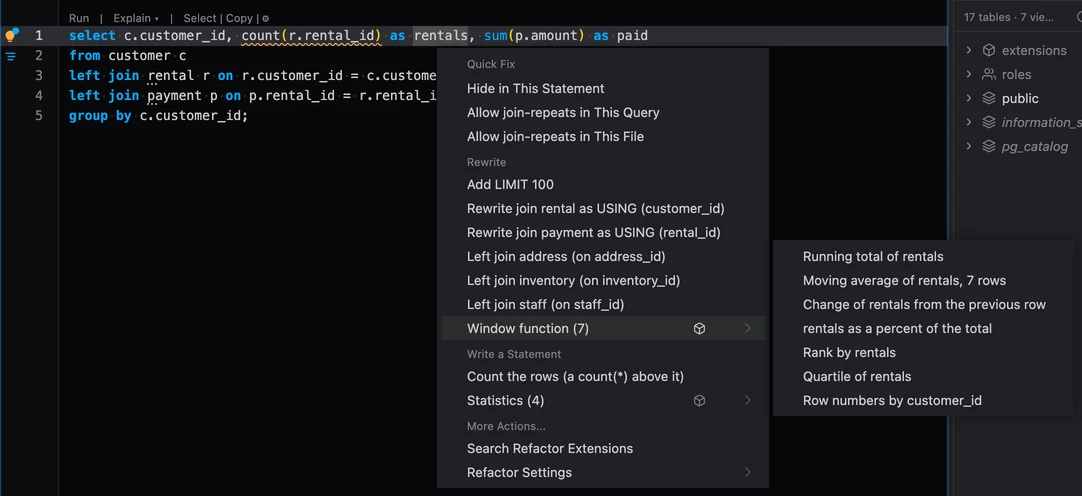
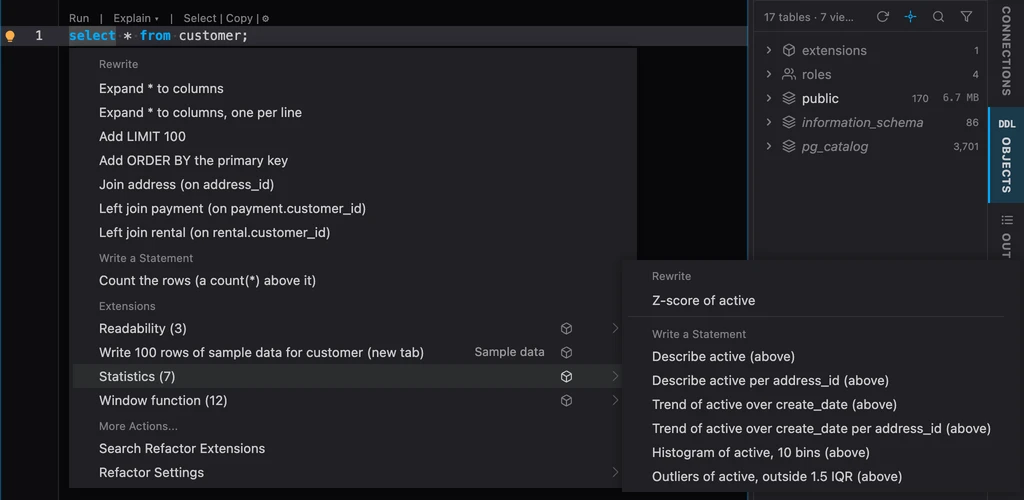
notes: 0.29.0 says some refactors moved to extensions and an extension's offers stand in an Extensions group of their own, two or more under its name; the public docs carry the API's UPDATE and DELETE WHERE, a table's kind and the arrays signal

diff --git a/docs/plumesql-extension.d.ts b/docs/plumesql-extension.d.ts
@@ -626,6 +626,10 @@ interface RefactorTable {
   alias?: string;
   schema: string;
   name: string;
+  /** What the relation is, as the dictionary names it: 'table', 'view',
+   * 'materialized view', 'foreign table', 'hypertable' ... PlumeSQL 0.29.0
+   * and later. */
+  kind?: string;
   columns: RefactorColumn[];
   /** TimescaleDB's hypertable facts, when the table is one. */
   timescale?: { timeColumn?: string };
@@ -675,6 +679,11 @@ interface RefactorStatement {
    * parser: absent for anything but a SELECT (or a WITH over one) and for
    * a set operation (UNION, INTERSECT, EXCEPT). */
   query?: RefactorQuery;
+  /** An UPDATE's or a DELETE's WHERE, read by PostgreSQL's own parser, in
+   * the shape of query.where: absent for any other statement, for one
+   * without a WHERE, and until the parser has loaded. PlumeSQL 0.29.0 and
+   * later. */
+  where?: RefactorExpr;
   /** A CREATE FUNCTION's or CREATE PROCEDURE's facts and what its body
    * does, read by PostgreSQL's own parser: absent for anything else and
    * until the parser has loaded. PlumeSQL 0.26.0 and later. */

diff --git a/docs/CATALOG.md b/docs/CATALOG.md
@@ -71,7 +71,7 @@ One JSON object per extension, UTF-8, no comments. Fields:
 | `license` | yes | An SPDX identifier. The repository's own license applies to what is contributed; the field makes it explicit per extension. |
 | `featured` | no | `true` for the curated few the panel shows first under Recommended when nothing else recommends them. Maintainers set it. |
 | `recommend` | no | App-side signals that put the extension under Recommended (4.3), a list of known words: `my-extensions` (the user has extensions of their own). The validator refuses an unknown word. |
-| `suggest` | no | A refactor extension alone: the statement signals on which the editor's lightbulb offers its install (4.3), a list of known words, each once: `numbers` (a query returning a number column that is no key). The validator refuses an unknown word (rule 8i). Maintainers set it, as they set `featured`: a signal puts the extension in the lightbulb of every matching query, so it is granted to an extension whose refactors genuinely fit such queries, never asked for by declaring it. |
+| `suggest` | no | A refactor extension alone: the statement signals on which the editor's lightbulb offers its install (4.3), a list of known words, each once: `numbers` (a query returning a number column that is no key), `arrays` (a query over an array column). The validator refuses an unknown word (rule 8i). Maintainers set it, as they set `featured`: a signal puts the extension in the lightbulb of every matching query, so it is granted to an extension whose refactors genuinely fit such queries, never asked for by declaring it. |
 | `types` | no | A grid or a refactor extension alone: the PostgreSQL data types whose values a grid extension reads (its inspectors), or that a refactor extension's refactors rewrite, bare lowercase names as `format_type` spells them without a schema or a modifier (`geometry`, `vector`, `double precision`), 1 to 12, each once. For a grid extension, a result column declared one of them offers the extension while it is not installed, and a query returning one suggests it in the editor's lightbulb; for a refactor extension, a statement over a column of one of them suggests its install in the lightbulb (4.3). |
 | `forkedFrom` | no | The id the extension was copied from in the app, informational; the validator accepts an id. |
 | `externals` | when the code loads any | Every external library the extension loads at run time, as https URLs: a grid view's `scripts: [...]`, an `import` from a CDN. The validator checks the list against the code both ways (rule 8b of section 12), so a manifest never hides what the code fetches. The app shows them under Dependencies with their hosts, says which hosts the allowlist (`extensions.remoteScriptHosts`) has, and offers to allow the rest. |
@@ -211,8 +211,12 @@ returns is its last run's columns when the statement ran as written,
 else what its select list says (a column of its tables, typed by the
 dictionary, and a star's tables' columns). Such a statement offers
 "Install <name> (from the Marketplace)" exactly as a type does, under
-the same rules. A word a later catalog brings and the app does not know
-offers nothing, never a reason to refuse the catalog.
+the same rules. `arrays` is on for a query whose result (its last run's
+columns, else what its select list says) or whose tables have a column
+of an array type (`text[]`, `integer[]`): the type a `types` entry
+cannot name, since an array of a type is not the type. A word a later
+catalog brings and the app does not know offers nothing, never a reason
+to refuse the catalog.
 
 Every install the lightbulb offers is a suggestion the user may decline
 for good. The install's question (2.1), asked from a suggestion, has
@@ -488,7 +492,8 @@ when:
    `[]` in it);
 8i. `suggest` is present on an extension that is not a refactor
    extension, is not a non-empty list of strings, lists one twice, or
-   lists a word the validator does not know (`numbers` today);
+   lists a word the validator does not know (`numbers` and `arrays`
+   today);
 9. `permissions` has an unknown key;
 10. reserved;
 11. a `.plumesql.sql` or `.plumesql.run` does not parse under the action

diff --git a/changelog/free-v0.29.0/README.md b/changelog/free-v0.29.0/README.md
@@ -735,28 +735,58 @@ top.
 - A copy button beside an extension's name, on the row under the mouse,
   copies its id, the name `-- @extension` lines use.
 
+### Some refactors moved to extensions
+
+Ten of the editor's own refactors are extensions now, each beside the ones
+of its kind, so the lightbulb lists what you chose to have:
+
+- **JSON refactors** (new): list a column's keys, expand an array or an
+  object into rows, add its keys as columns, `@>` containment, `#>>`
+  paths and pretty print. Adding the keys as columns no longer asks which
+  keys: one offer adds them all, and the first ones are offered one by one.
+- **Performance refactors**: Add an index for a filter, which now also
+  reads an UPDATE's and a DELETE's WHERE.
+- **Statistics refactors**: Count by a column's values, and Cast a text
+  column.
+
+They work as before once installed, and the lightbulb suggests the JSON
+ones on a query over a json column. Install them here, or every everyday
+refactor extension at once with **Refactor essentials**, which the
+Extensions tab recommends:
+
+```extensions
+refactor-essentials
+json-refactors
+performance-refactors
+statistics-refactors
+```
+
 ### An extension's refactors under its name
 
 The more refactor extensions you install, the longer the lightbulb's
-list. Now an extension with three or more offers for a statement is one
-row under its name, with how many it has: **Window function (7)**,
-**Statistics (4)**. The rest of the list stays as short as it was.
+list. Now every installed extension's offers stand together in their own
+**Extensions** group, after PlumeSQL's own, and an extension with two or
+more offers for a statement is one row under its name, with how many it
+has: **Window function (12)**, **Statistics (7)**. The rest of the list
+stays as short as it was.
 
-![The lightbulb on a query over customer, rental and payment: Rewrite lists Add LIMIT 100, the USING rewrites and the joins, then one row Window function (7) with its cube and a chevron; Write a Statement lists Count the rows and Statistics (4); More Actions ends with Search Refactor Extensions and Refactor Settings. Window function is under the mouse, and its submenu beside it lists Running total of rentals, Moving average of rentals over 7 rows, Change of rentals from the previous row, rentals as a percent of the total, Rank by rentals, Quartile of rentals and Row numbers by customer_id](media/refactor-groups.webp)
+![The lightbulb on select * from customer: Rewrite lists Expand * to columns, Add LIMIT 100, Add ORDER BY the primary key and three joins; Write a Statement lists Count the rows; Extensions lists Readability (3), Write 100 rows of sample data for customer (new tab) by Sample data, Statistics (7) and Window function (12), each with its cube in one column. Statistics is under the mouse, and its submenu beside it lists Z-score of active under Rewrite, then Describe active, Trend of active over create_date, Histogram of active and Outliers of active under Write a Statement](media/refactor-groups.webp)
 
 Point at the row and its refactors open beside it, as Refactor
 Settings opens its scopes (the right arrow or Enter opens them from the
-keyboard); one of them applies as ever. The cube on the row still opens
-the extension's page.
+keyboard), headed Rewrite and Write a Statement when it has both; one of
+them applies as ever. The cube on the row still opens the extension's
+page.
 
 - The editor's right click menu does the same: under **Refactorings**,
   the extension's name opens a submenu with its refactors.
-- One or two offers of an extension stay in the list itself.
+- An extension with a single offer keeps it as a row of its own in the
+  Extensions group, its name beside it.
 - **More Actions > Search Refactor Extensions**, in the lightbulb and in
   the menu, shows the Extensions tab with the refactor extensions alone,
   to find more.
-- To list every offer as before, set **Settings > Refactors > Group an
-  extension's offers** to off.
+- To list every offer on a row of its own, set **Settings > Refactors >
+  Group an extension's offers** to off.
 
 ### Extensions from the annotation list
 

diff --git a/docs/GRIDJSSPEC.md b/docs/GRIDJSSPEC.md
@@ -138,6 +138,9 @@ export interface RefactorStatement {
   tables: RefactorTable[]
   // A query's main SELECT, absent for anything else and for a set operation.
   query?: RefactorQuery
+  // An UPDATE's or a DELETE's WHERE as PostgreSQL's parser reads it
+  // (PlumeSQL 0.29.0 and later); a SELECT's is query.where.
+  where?: RefactorExpr
   routine?: RefactorRoutine
 }
 
@@ -229,6 +232,9 @@ export interface RefactorTable {
   alias?: string
   schema: string
   name: string
+  // What the relation is, as the dictionary names it ('table', 'view',
+  // 'materialized view', 'foreign table' ...; PlumeSQL 0.29.0 and later).
+  kind?: string
   columns: RefactorColumn[]
   // TimescaleDB's hypertable facts, when the table is one.
   timescale?: { timeColumn?: string }
@@ -1242,7 +1248,10 @@ quick and MUST answer from what it is given; it cannot ask the server.
   ALTER TABLE's table),
   resolved in the connection's dictionary; one the dictionary does not know
   is left out, a subquery's own tables are not listed. Each carries `ref`
-  (how the statement names it), `alias`, the exact `schema` and `name`, its
+  (how the statement names it), `alias`, the exact `schema` and `name`,
+  `kind`, what the relation is as the dictionary names it (`table`, `view`,
+  `materialized view`, `foreign table`, `hypertable` and the like; from
+  PlumeSQL 0.29.0), its
   `columns` (`name`, the declared `type` as PostgreSQL prints it, `pk` its
   place in the primary key, `notNull` true when it can hold no NULL (NOT
   NULL, or in the primary key), `identity` (`always` or `by default`) for
@@ -1311,6 +1320,13 @@ quick and MUST answer from what it is given; it cannot ask the server.
   and place and has no `args`: offer nothing about it. On an older
   PlumeSQL these are absent; an extension that reads them offers the rest
   and keeps installing there.
+- `where`: an UPDATE's or a DELETE's WHERE, read by PostgreSQL's own
+  parser once it has loaded and when the statement parses, as an
+  expression of the shape `query.where` has (`RefactorExpr`, above), from
+  after the keyword to RETURNING or the statement's end; absent for any
+  other statement (a SELECT's is `query.where`), for one without a WHERE
+  and for WHERE CURRENT OF. From PlumeSQL 0.29.0; on an older one it is
+  absent, and an extension that reads it offers the rest.
 - `routine`: a CREATE FUNCTION's or CREATE PROCEDURE's facts, read by
   PostgreSQL's own parser, so a refactor that rewrites a routine carries
   no parser either; absent for any other statement and until the parser
@@ -1411,9 +1427,12 @@ statement (at most 1,000,000 characters): choosing it opens that statement
 in a new tab and leaves the script as it is; its `edits` are then ignored
 and may be empty. (PlumeSQL: the tab is an unsaved script named after the
 offer's title, without a trailing "(new tab)"; Save asks where and under
-which name.) A host lists an offer that writes a new statement (a
+which name.) A host may tell an offer that writes a new statement (a
 `tab`, or edits that only insert whole statements before or after this one)
-with its own such refactors (PlumeSQL: Write a Statement). An insertion at offset 0 that
+from one that rewrites this statement (PlumeSQL: every offer of an
+extension stands in the lightbulb's Extensions group, its rewrites before
+the statements it writes, and two or more fold into one row under the
+extension's name whose submenu heads them Rewrite and Write a Statement). An insertion at offset 0 that
 writes whole statements is placed ABOVE the comment lines right over the
 statement's code (its docstring and its annotations, up to a blank line),
 so they stay with the statement they describe; the offer writes it at 0
